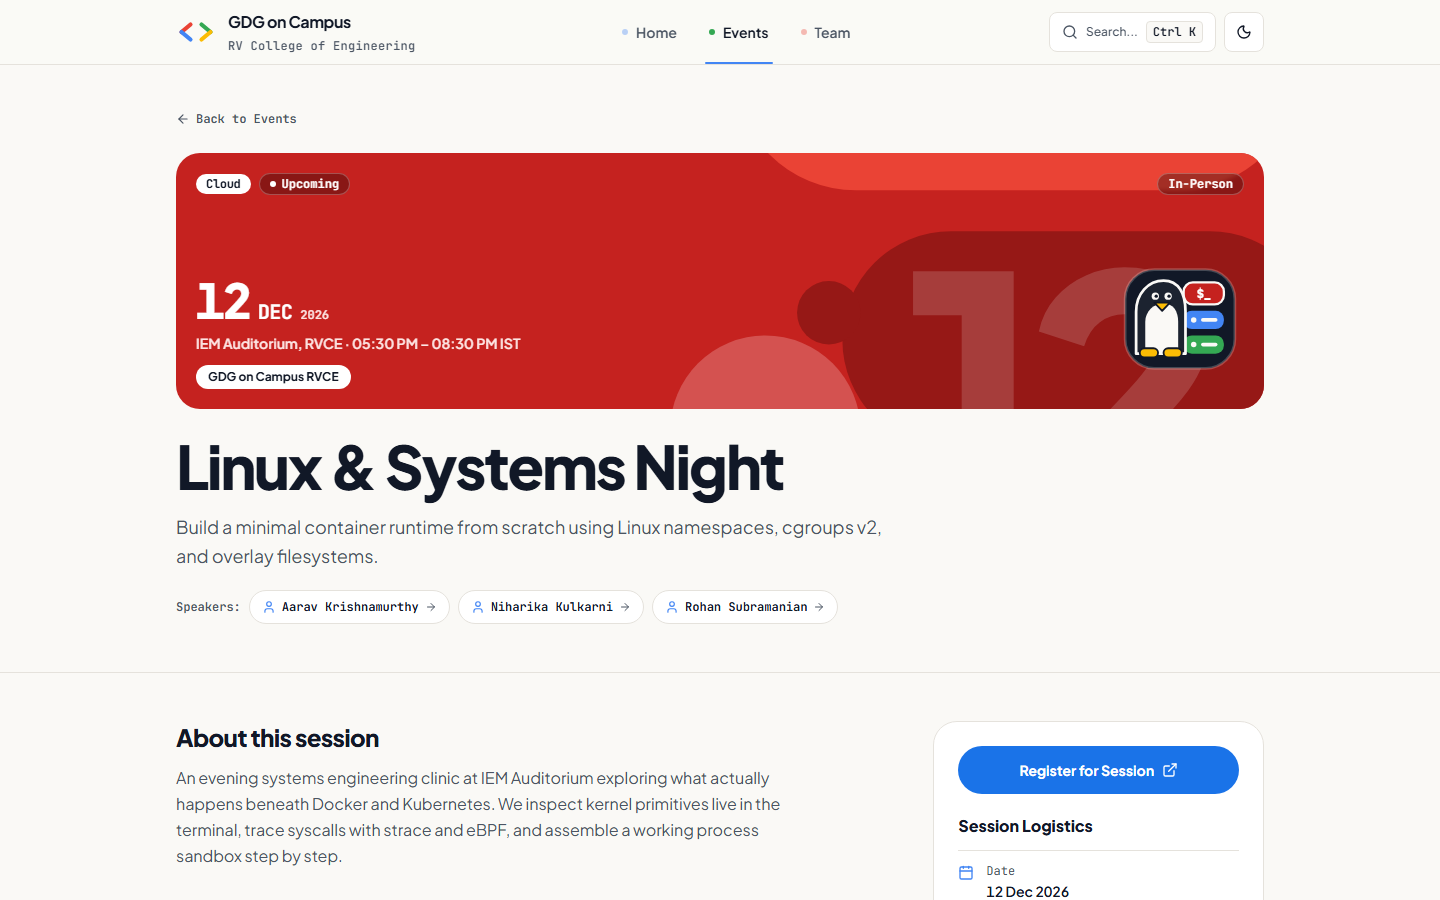
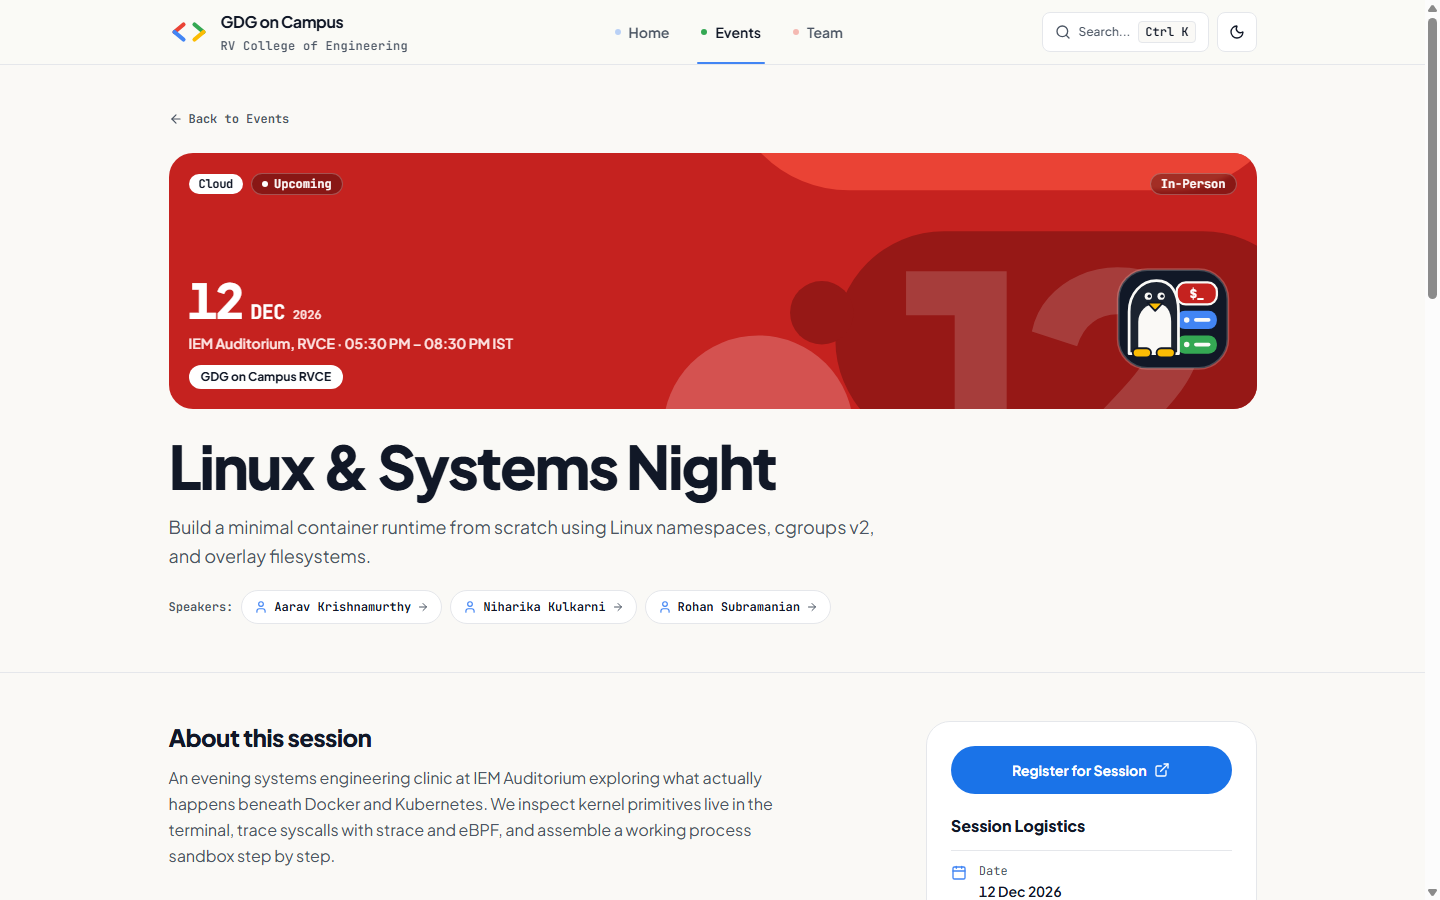
Fixed overhaul

diff --git a/src/app/events/page.tsx b/src/app/events/page.tsx
@@ -18,10 +18,10 @@ export default function EventsPage() {
 
   return (
     <div className="bg-canvas">
-      {/* Open Editorial Masthead + Next Flagship Session Callout */}
-      <section className="border-b border-hairline bg-canvas py-12 sm:py-16">
+      {/* Open Editorial Masthead + Compact Next Flagship Strip */}
+      <section className="border-b border-hairline bg-canvas py-10 sm:py-12">
         <div className="mx-auto max-w-6xl px-4 sm:px-6 lg:px-8">
-          <div className="grid grid-cols-1 items-end gap-8 lg:grid-cols-12">
+          <div className="grid grid-cols-1 items-center gap-6 lg:grid-cols-12 lg:gap-8">
             <div className="lg:col-span-7">
               <h1 className="text-4xl font-extrabold tracking-[-0.03em] text-ink text-balance sm:text-5xl">
                 Workshops, Labs &amp; Study Jams
@@ -33,9 +33,12 @@ export default function EventsPage() {
               </p>
             </div>
 
-            {/* Next Flagship Session Editorial Callout (unboxed hairline split) */}
+            {/* Compact Next Flagship Feature Strip (zero empty vertical void) */}
             {flagship && flagshipStyles && (
-              <div className="border-t border-hairline pt-5 lg:col-span-5 lg:border-t-0 lg:border-l lg:pt-0 lg:pl-8">
+              <Link
+                href={`/events/${flagship.slug}`}
+                className="group block rounded-2xl border border-hairline bg-surface p-4 transition-colors hover:border-gdg-blue/50 hover:bg-surface-muted/40 focus-visible:outline-2 focus-visible:outline-offset-2 focus-visible:outline-[#4285F4] sm:p-5 lg:col-span-5"
+              >
                 <div className="flex flex-wrap items-center justify-between gap-2 font-mono text-xs">
                   <span className="inline-flex items-center gap-1.5 font-semibold text-[#166534] dark:text-[#A8DAB5]">
                     <span
@@ -45,50 +48,46 @@ export default function EventsPage() {
                     Next Flagship Session
                   </span>
                   <span
-                    className={`inline-flex items-center rounded-md border px-2 py-0.5 font-semibold ${flagshipStyles.badge}`}
+                    className={`inline-flex items-center rounded-full border px-2.5 py-0.5 font-semibold ${flagshipStyles.badge}`}
                   >
                     {flagship.track}
                   </span>
                 </div>
 
-                <Link
-                  href={`/events/${flagship.slug}`}
-                  className="group mt-2.5 block focus-visible:outline-2 focus-visible:outline-offset-2 focus-visible:outline-[#4285F4]"
-                >
-                  <div className="flex items-start justify-between gap-3">
-                    <h2 className="text-lg font-bold tracking-tight text-ink transition-colors group-hover:text-gdg-blue-ink">
-                      {flagship.title}
-                    </h2>
-                    <ArrowRight
-                      className="mt-1 h-4 w-4 shrink-0 text-ink-muted transition-transform group-hover:translate-x-0.5 group-hover:text-gdg-blue-ink"
+                <div className="mt-2.5 flex items-start justify-between gap-3">
+                  <h2 className="text-lg font-extrabold tracking-tight text-ink transition-colors group-hover:text-gdg-blue-ink">
+                    {flagship.title}
+                  </h2>
+                  <ArrowRight
+                    className="mt-1 h-4 w-4 shrink-0 text-ink-muted transition-transform group-hover:translate-x-0.5 group-hover:text-gdg-blue-ink"
+                    aria-hidden="true"
+                  />
+                </div>
+
+                <div className="mt-2 flex flex-wrap items-center gap-x-4 gap-y-1 font-mono text-xs text-ink-muted">
+                  <span className="inline-flex items-center gap-1">
+                    <Calendar
+                      className="h-3.5 w-3.5 text-gdg-blue"
                       aria-hidden="true"
                     />
-                  </div>
-                  <div className="mt-2 flex flex-wrap items-center gap-x-4 gap-y-1 font-mono text-xs text-ink-muted">
-                    <span className="inline-flex items-center gap-1">
-                      <Calendar
-                        className="h-3.5 w-3.5 text-gdg-blue"
-                        aria-hidden="true"
-                      />
-                      {flagship.dateDisplay}
-                    </span>
-                    <span className="inline-flex items-center gap-1 tabular-nums">
-                      <Clock
-                        className="h-3.5 w-3.5 text-gdg-green"
-                        aria-hidden="true"
-                      />
-                      {flagship.timeDisplay}
-                    </span>
-                    <span className="inline-flex items-center gap-1">
-                      <MapPin
-                        className="h-3.5 w-3.5 text-gdg-red"
-                        aria-hidden="true"
-                      />
-                      {flagship.venue}
-                    </span>
-                  </div>
-                </Link>
-              </div>
+                    {flagship.dateDisplay}
+                  </span>
+                  <span className="inline-flex items-center gap-1 tabular-nums">
+                    <Clock
+                      className="h-3.5 w-3.5 text-gdg-green"
+                      aria-hidden="true"
+                    />
+                    {flagship.timeDisplay}
+                  </span>
+                  <span className="inline-flex items-center gap-1">
+                    <MapPin
+                      className="h-3.5 w-3.5 text-gdg-red"
+                      aria-hidden="true"
+                    />
+                    {flagship.venue}
+                  </span>
+                </div>
+              </Link>
             )}
           </div>
         </div>

diff --git a/src/components/layout/Navbar.tsx b/src/components/layout/Navbar.tsx
@@ -136,11 +136,11 @@ export function Navbar() {
             type="button"
             onClick={triggerCommandPalette}
             aria-label="Open command navigation (Ctrl+K or Command+K)"
-            className="inline-flex h-10 items-center gap-2 border border-hairline bg-surface px-2.5 text-xs font-medium text-ink-muted transition-colors hover:border-ink hover:bg-surface-muted hover:text-ink focus-visible:outline-2 focus-visible:outline-offset-2 focus-visible:outline-[#4285F4] sm:px-3"
+            className="inline-flex h-10 items-center gap-2 rounded-lg border border-hairline bg-surface px-2.5 text-xs font-medium text-ink-muted transition-colors hover:border-gdg-blue/60 hover:bg-surface-muted hover:text-ink focus-visible:outline-2 focus-visible:outline-offset-2 focus-visible:outline-[#4285F4] sm:px-3"
           >
             <Search className="h-4 w-4 shrink-0" aria-hidden="true" />
             <span className="hidden sm:inline">Search...</span>
-            <kbd className="hidden border border-hairline bg-canvas px-1.5 py-0.5 font-mono text-xs text-ink sm:inline">
+            <kbd className="hidden rounded border border-hairline bg-canvas px-1.5 py-0.5 font-mono text-xs text-ink sm:inline">
               {shortcutHint}
             </kbd>
           </button>
@@ -156,7 +156,7 @@ export function Navbar() {
             aria-label={
               mobileOpen ? "Close navigation menu" : "Open navigation menu"
             }
-            className="inline-flex h-10 w-10 items-center justify-center border border-hairline bg-surface text-ink transition-transform duration-150 hover:bg-surface-muted active:scale-95 focus-visible:outline-2 focus-visible:outline-offset-2 focus-visible:outline-[#4285F4] md:hidden"
+            className="inline-flex h-10 w-10 items-center justify-center rounded-lg border border-hairline bg-surface text-ink transition-transform duration-150 hover:bg-surface-muted active:scale-95 focus-visible:outline-2 focus-visible:outline-offset-2 focus-visible:outline-[#4285F4] md:hidden"
           >
             {mobileOpen ? (
               <X className="h-4 w-4" aria-hidden="true" />

diff --git a/src/app/globals.css b/src/app/globals.css
@@ -3,19 +3,19 @@
 
 :root {
   color-scheme: light;
-  --canvas: #F6F4EE;
-  --surface: #FDFCF9;
-  --surface-muted: #ECE9E0;
-  --hairline: #D8D4C9;
-  --ink: #0F1115;
-  --ink-muted: #4A4F5A;
-  --gdg-blue: #1A73E8;
+  --canvas: #FAF9F6;
+  --surface: #FFFFFF;
+  --surface-muted: #F1F3F4;
+  --hairline: #E5E7EB;
+  --ink: #111827;
+  --ink-muted: #4B5563;
+  --gdg-blue: #4285F4;
   --gdg-blue-ink: #1765CC;
-  --gdg-red: #D93025;
-  --gdg-yellow: #F9AB00;
-  --gdg-green: #188038;
-  --blueprint-line: rgba(15, 17, 21, 0.06);
-  --blueprint-dot: rgba(15, 17, 21, 0.12);
+  --gdg-red: #EA4335;
+  --gdg-yellow: #FBBC04;
+  --gdg-green: #34A853;
+  --blueprint-line: rgba(17, 24, 39, 0.06);
+  --blueprint-dot: rgba(17, 24, 39, 0.14);
   /* Material 3 Expressive tactile spring easing via CSS linear() */
   --ease-spring: linear(
     0, 0.009, 0.035 2.1%, 0.141, 0.281 6.7%, 0.723 12.9%, 0.938 16.7%,
@@ -28,19 +28,19 @@
 
 .dark {
   color-scheme: dark;
-  --canvas: #0C0E12;
-  --surface: #12151C;
-  --surface-muted: #1A1F29;
-  --hairline: #262C38;
-  --ink: #F5F3EE;
-  --ink-muted: #9BA3B4;
+  --canvas: #0C0F14;
+  --surface: #141922;
+  --surface-muted: #1C2330;
+  --hairline: #273041;
+  --ink: #F8FAFC;
+  --ink-muted: #94A3B8;
   --gdg-blue: #669DF6;
   --gdg-blue-ink: #669DF6;
   --gdg-red: #F28B82;
   --gdg-yellow: #FDD663;
   --gdg-green: #81C995;
-  --blueprint-line: rgba(245, 243, 238, 0.06);
-  --blueprint-dot: rgba(245, 243, 238, 0.14);
+  --blueprint-line: rgba(248, 250, 252, 0.06);
+  --blueprint-dot: rgba(248, 250, 252, 0.14);
 }
 
 @theme inline {
@@ -109,7 +109,8 @@ input[type="search"]::-webkit-search-decoration {
 
 /* Monumental Swiss Editorial Display Scale */
 .display-monumental {
-  font-size: clamp(3.25rem, 7.5vw, 6.5rem);
+  font-size: clamp(3.25rem, 7vw, 6.25rem);
+  font-weight: 800;
   line-height: 0.94;
   letter-spacing: -0.04em;
   text-wrap: balance;

diff --git a/src/components/layout/Footer.tsx b/src/components/layout/Footer.tsx
@@ -39,10 +39,9 @@ export function Footer() {
       </div>
 
       <div className="mx-auto max-w-6xl px-4 py-14 sm:px-6 lg:px-8">
-        <div className="grid grid-cols-1 border-y border-hairline md:grid-cols-12 md:divide-x md:divide-hairline">
+        <div className="grid grid-cols-1 gap-10 md:grid-cols-12">
           {/* Chapter Identity */}
-          <div className="space-y-4 py-8 md:col-span-5 md:pr-8">
-            <p className="swiss-index text-ink-muted">RVCE &middot; MYSURU ROAD</p>
+          <div className="space-y-4 md:col-span-5">
             <div className="-ml-2">
               <GdgLogo />
             </div>
@@ -58,9 +57,9 @@ export function Footer() {
             </p>
           </div>
 
-          {/* Site Navigation */}
-          <div className="border-t border-hairline py-8 md:col-span-3 md:border-t-0 md:px-8">
-            <h2 className="swiss-index text-ink-muted">01 // Directory</h2>
+          {/* Site Navigation — clean unnumbered list */}
+          <div className="md:col-span-3">
+            <h2 className="text-sm font-bold text-ink">Directory</h2>
             <ul className="mt-4 divide-y divide-hairline border-y border-hairline">
               {siteConfig.navLinks.map((item) => (
                 <li key={item.href}>
@@ -80,8 +79,8 @@ export function Footer() {
           </div>
 
           {/* Community Channels */}
-          <div className="border-t border-hairline py-8 md:col-span-4 md:border-t-0 md:pl-8">
-            <h2 className="swiss-index text-ink-muted">02 // Channels</h2>
+          <div className="md:col-span-4">
+            <h2 className="text-sm font-bold text-ink">Community Channels</h2>
             <ul className="mt-4 divide-y divide-hairline border-y border-hairline">
               {siteConfig.communityLinks.map((link) => (
                 <li key={link.id}>

diff --git a/src/data/site.ts b/src/data/site.ts
@@ -186,7 +186,7 @@ export const siteConfig = {
     takeawayTabs: [
       {
         id: "teardowns",
-        label: "01 // Teardown",
+        label: "Teardown",
         scene: "teardown",
         headline: "Edge routing, streaming UI, and container debugging live on stage",
         detail:
@@ -196,7 +196,7 @@ export const siteConfig = {
       },
       {
         id: "flamegraphs",
-        label: "02 // Perf Clinic",
+        label: "Perf Clinic",
         scene: "flamegraph",
         headline: "Trimming hydration cost and layout shifts in student web apps",
         detail:
@@ -206,7 +206,7 @@ export const siteConfig = {
       },
       {
         id: "postmortems",
-        label: "03 // Postmortems",
+        label: "Postmortems",
         scene: "postmortem",
         headline: "Honest debugging stories from shipped campus prototypes",
         detail:
@@ -216,7 +216,7 @@ export const siteConfig = {
       },
       {
         id: "handoff",
-        label: "04 // Starter Kits",
+        label: "Starter Kits",
         scene: "starterkit",
         headline: "Reproducible repositories & accessibility checklists for self-paced study",
         detail:

diff --git a/src/components/layout/ThemeToggle.tsx b/src/components/layout/ThemeToggle.tsx
@@ -112,7 +112,7 @@ export function ThemeToggle() {
             : "Switch to dark mode"
           : "Toggle color theme"
       }
-      className="inline-flex h-10 w-10 items-center justify-center border border-hairline bg-surface text-ink transition-transform duration-150 hover:border-ink hover:bg-surface-muted active:scale-95 focus-visible:outline-2 focus-visible:outline-offset-2 focus-visible:outline-[#4285F4]"
+      className="inline-flex h-10 w-10 items-center justify-center rounded-lg border border-hairline bg-surface text-ink transition-transform duration-150 hover:bg-surface-muted active:scale-95 focus-visible:outline-2 focus-visible:outline-offset-2 focus-visible:outline-[#4285F4]"
     >
       {mounted ? (
         isDark ? (

diff --git a/src/components/home/HeroSection.tsx b/src/components/home/HeroSection.tsx
@@ -10,7 +10,7 @@ export function HeroSection() {
 
   return (
     <section className="relative border-b border-hairline bg-canvas">
-      <div className="mx-auto w-full max-w-6xl px-4 py-10 sm:px-6 sm:py-14 lg:px-8 lg:py-14">
+      <div className="mx-auto w-full max-w-6xl px-4 py-8 sm:px-6 sm:py-10 lg:px-8 lg:py-10">
         <div className="grid grid-cols-1 items-center gap-10 lg:grid-cols-12 lg:gap-8">
           {/* Oversized Editorial Poster Column */}
           <div className="min-w-0 space-y-6 lg:col-span-6 lg:space-y-5">
